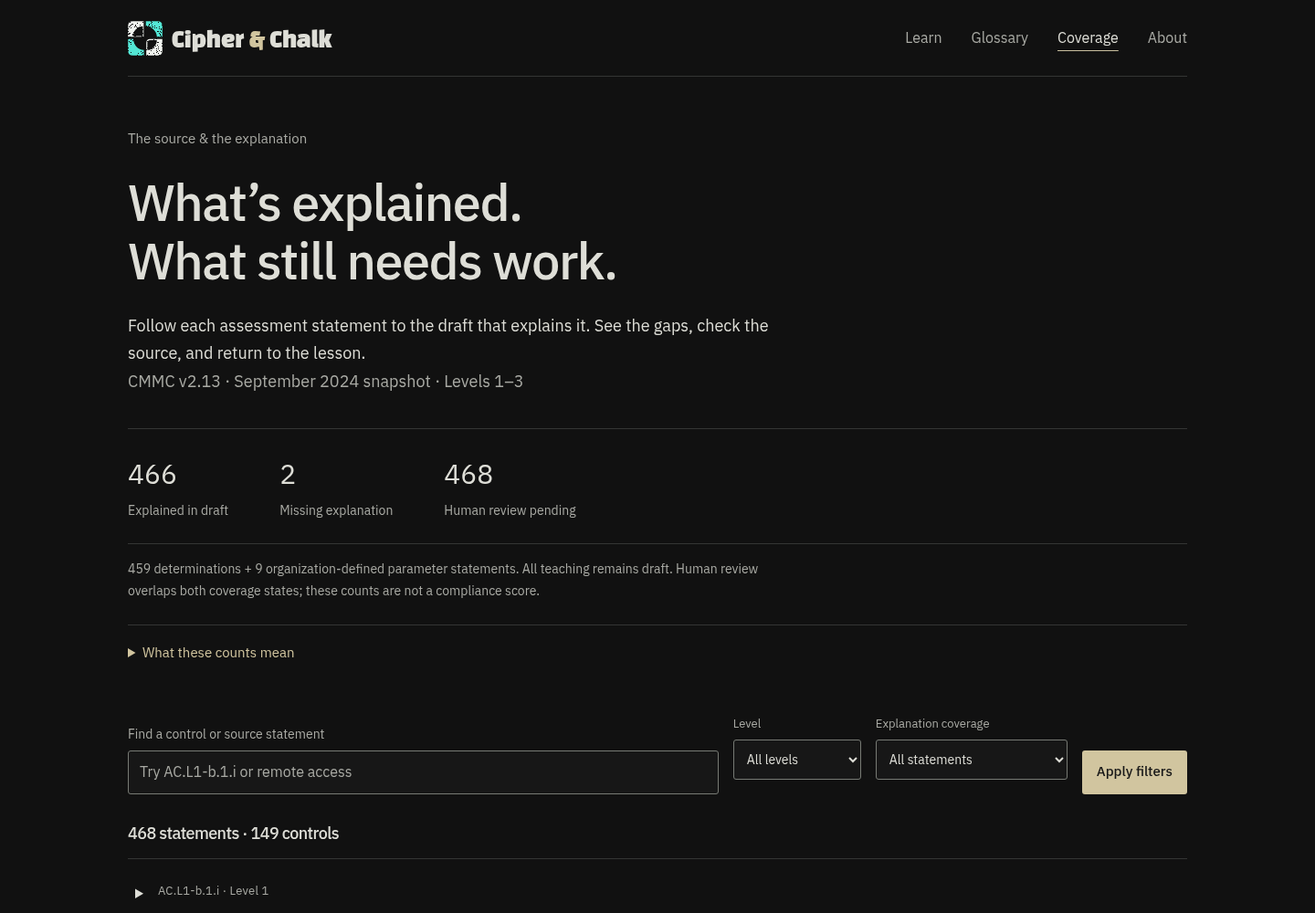
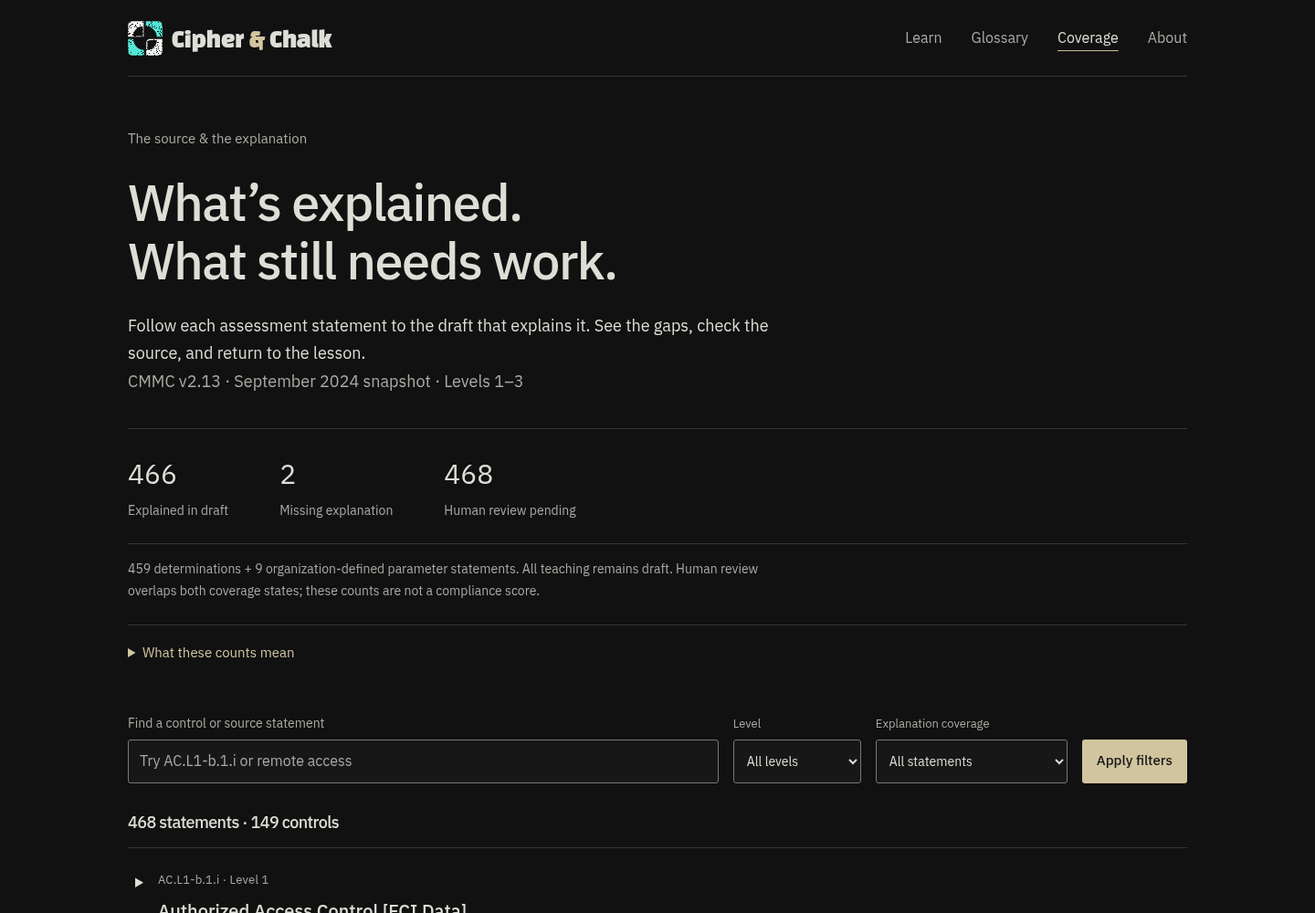
Align coverage filters and refresh validated preview evidence

diff --git a/src/components/coverage.css b/src/components/coverage.css
@@ -73,6 +73,10 @@
   }
   .coverage-filters .filter-field {
     min-width: 0;
+    margin-bottom: 0;
+  }
+  .coverage-filters .filter-field select {
+    min-height: 48px;
   }
   .coverage-filters .filter-field > span {
     font-size: 13px;

diff --git a/docs/reviews/objective-coverage-2026-10-14.md b/docs/reviews/objective-coverage-2026-10-14.md
@@ -75,66 +75,66 @@ apply; no paid providers, cookie imports, tunnels, sync, accounts or new product
 promotion are authorized. Bounded independent reviews are AI assistance, not
 qualified human approval.
 
-| Canonical skill       | Disposition for Increment 3                                                                                                                                                                                              |
-| --------------------- | ------------------------------------------------------------------------------------------------------------------------------------------------------------------------------------------------------------------------ |
-| gstack                | Adapted routing: evaluated all 58 canonical triggers for this fixed increment.                                                                                                                                           |
-| autoplan              | Not applicable: explicit four-increment plan; no product-scope expansion.                                                                                                                                                |
-| benchmark             | Adapted: initial JS 444.99 kB versus 443.15 kB base; roughly 152 kB coverage payload remains lazy. No broad performance benchmark.                                                                                       |
-| benchmark-models      | Not applicable; paid/outside-provider comparison unauthorized.                                                                                                                                                           |
-| browse                | Adapted: isolated Chromium production-build flows and screenshots at 1440/768/390/320px; actual Safari/iOS and assistive-technology checks remain unavailable.                                                           |
-| canary                | Not applicable: no production rollout; preview status checked separately.                                                                                                                                                |
-| careful               | Not invoked: ordinary feature Git operations; explicitly approved PR #15 merge verified.                                                                                                                                 |
-| claude-code           | Gated/not run: outside-provider reviews disabled.                                                                                                                                                                        |
-| codex                 | Unsupported host wrapper; native independent agents were used directly.                                                                                                                                                  |
-| context-restore       | Not applicable: no gstack saved checkpoint to restore.                                                                                                                                                                   |
-| context-save          | Not applicable: durable handoff is this PR and report.                                                                                                                                                                   |
-| cso                   | Blocked/not assessed: trusted installed launcher absent.                                                                                                                                                                 |
-| design-consultation   | Not applicable: preserve existing brand and design.                                                                                                                                                                      |
-| design-html           | Not applicable: no standalone design artifact requested.                                                                                                                                                                 |
-| design-review         | Adapted: desktop/tablet/mobile screenshots, hierarchy, muted tokens, wrapping, navigation, empty/loading/error states and keyboard disclosures inspected. Native scoring/provider gates omitted.                         |
-| design-shotgun        | Not applicable: no new design variants.                                                                                                                                                                                  |
-| deslop-shared-libs    | Not applicable: no substantive duplicate-library extraction.                                                                                                                                                             |
-| devex-review          | Not applicable as broad DX audit; existing Vitest and GitHub reviewer workflow reused.                                                                                                                                   |
-| diagram               | Not applicable: small engineering flow recorded inline, no diagram artifact.                                                                                                                                             |
-| document-generate     | Adapted: source inventory, objective mapping evidence and review-maintenance guidance created.                                                                                                                           |
-| document-release      | Adapted: roadmap/README/TODO/changelog/development/design/privacy/reviewer packet updated; only verified PR #15 merged tasks checked.                                                                                    |
-| eval-plan             | Not applicable: no LLM application or evaluation.                                                                                                                                                                        |
-| freeze                | Not applicable: no requested persistent scope lock.                                                                                                                                                                      |
-| gstack-upgrade        | Gated/not run: exact pin must remain.                                                                                                                                                                                    |
-| guard                 | Not applicable: no production/destructive workflow.                                                                                                                                                                      |
-| health                | Not applicable as release-health workflow: local targeted checks and CI cover this feature PR.                                                                                                                           |
-| investigate           | Adapted: source wording conflict and missing explicit teaching details traced to pinned guide pages.                                                                                                                     |
-| ios-clean             | Not applicable: no native iOS project.                                                                                                                                                                                   |
-| ios-design-review     | Not applicable: web app, not SwiftUI; actual Safari/iOS validation remains pending.                                                                                                                                      |
-| ios-fix               | Not applicable: no native iOS project.                                                                                                                                                                                   |
-| ios-qa                | Not applicable: no DebugBridge/iOS runtime.                                                                                                                                                                              |
-| ios-sync              | Not applicable: no native iOS project.                                                                                                                                                                                   |
-| land-and-deploy       | Native workflow not run; PR #15 merged with explicit approval. This increment requires new owner approval.                                                                                                               |
-| landing-report        | Not invoked: prior approved merge verified via GitHub; new PR handoff is review only.                                                                                                                                    |
-| learn                 | Not applicable: no separate learning-store update needed.                                                                                                                                                                |
-| make-pdf              | Not applicable: no export requested.                                                                                                                                                                                     |
-| office-hours          | Not applicable: requirements and audience are explicit; no new product discovery.                                                                                                                                        |
-| open-gstack-browser   | Unavailable user-facing cloud browser; local Chromium automation available.                                                                                                                                              |
-| pair-agent            | Gated/not run: no remote browser sharing or tunnel authorized.                                                                                                                                                           |
-| plan-ceo-review       | Not applicable: fixed Phase 1/2 increments and explicit prohibition on scope expansion.                                                                                                                                  |
-| plan-design-review    | Adapted scoped plan below; existing visual system retained. Native scorecard/mockup/provider gates not run.                                                                                                              |
-| plan-devex-review     | Not applicable: no new developer product/API.                                                                                                                                                                            |
-| plan-eng-review       | Adapted: edition/source/text bindings, explicit field mappings, fail-closed gaps, lazy data and navigation plan below.                                                                                                   |
-| plan-tune             | Not applicable: no preference-profile change requested.                                                                                                                                                                  |
-| qa                    | Adapted: full 50 browser tests passed; five focused coverage tests passed again after the final teaching changes. Source verification, 342 unit tests and integrity fixtures passed; exact final CI remains PR evidence. |
-| qa-only               | Not applicable as duplicate alternative; scoped QA includes repairs.                                                                                                                                                     |
-| retro                 | Not applicable: no retrospective requested.                                                                                                                                                                              |
-| review                | Adapted: critical/informational diff check plus two bounded independent reviews; exact-control filtering and missing mapping fingerprint fixed. Semantic gaps repaired and delta-checked.                                |
-| scrape                | Not applicable: reuse verified pinned PDFs; current official-host access remains blocked as recorded in Increment 2.                                                                                                     |
-| setup-browser-cookies | Gated/not run: personal-session import unauthorized.                                                                                                                                                                     |
-| setup-deploy          | Not applicable: existing Git/Vercel preview integration retained.                                                                                                                                                        |
-| setup-gbrain          | Gated/not run: no new memory/account integration authorized.                                                                                                                                                             |
-| ship                  | Native workflow incomplete; ordinary authorized feature-branch commit/push/PR/preview verification only.                                                                                                                 |
-| skillify              | Not applicable: no scrape to codify.                                                                                                                                                                                     |
-| spec                  | Not applicable: user supplied detailed assignment; no external issue filing.                                                                                                                                             |
-| sync-gbrain           | Gated/not run: no authorized sync integration.                                                                                                                                                                           |
-| test-audit            | Not applicable as suite-pruning workflow: no deletions; each new regression covers browser-only behavior.                                                                                                                |
-| unfreeze              | Not applicable: no active freeze to remove.                                                                                                                                                                              |
+| Canonical skill       | Disposition for Increment 3                                                                                                                                                                                                                                    |
+| --------------------- | -------------------------------------------------------------------------------------------------------------------------------------------------------------------------------------------------------------------------------------------------------------- |
+| gstack                | Adapted routing: evaluated all 58 canonical triggers for this fixed increment.                                                                                                                                                                                 |
+| autoplan              | Not applicable: explicit four-increment plan; no product-scope expansion.                                                                                                                                                                                      |
+| benchmark             | Adapted: initial JS 444.99 kB versus 443.15 kB base; roughly 152 kB coverage payload remains lazy. No broad performance benchmark.                                                                                                                             |
+| benchmark-models      | Not applicable; paid/outside-provider comparison unauthorized.                                                                                                                                                                                                 |
+| browse                | Adapted: isolated Chromium production-build flows and screenshots at 1440/768/390/320px; actual Safari/iOS and assistive-technology checks remain unavailable.                                                                                                 |
+| canary                | Not applicable: no production rollout; preview status checked separately.                                                                                                                                                                                      |
+| careful               | Not invoked: ordinary feature Git operations; explicitly approved PR #15 merge verified.                                                                                                                                                                       |
+| claude-code           | Gated/not run: outside-provider reviews disabled.                                                                                                                                                                                                              |
+| codex                 | Unsupported host wrapper; native independent agents were used directly.                                                                                                                                                                                        |
+| context-restore       | Not applicable: no gstack saved checkpoint to restore.                                                                                                                                                                                                         |
+| context-save          | Not applicable: durable handoff is this PR and report.                                                                                                                                                                                                         |
+| cso                   | Blocked/not assessed: trusted installed launcher absent.                                                                                                                                                                                                       |
+| design-consultation   | Not applicable: preserve existing brand and design.                                                                                                                                                                                                            |
+| design-html           | Not applicable: no standalone design artifact requested.                                                                                                                                                                                                       |
+| design-review         | Adapted: desktop/tablet/mobile screenshots, hierarchy, muted tokens, wrapping, navigation, empty/loading/error states and keyboard disclosures inspected; inherited filter margins corrected to align the desktop form. Native scoring/provider gates omitted. |
+| design-shotgun        | Not applicable: no new design variants.                                                                                                                                                                                                                        |
+| deslop-shared-libs    | Not applicable: no substantive duplicate-library extraction.                                                                                                                                                                                                   |
+| devex-review          | Not applicable as broad DX audit; existing Vitest and GitHub reviewer workflow reused.                                                                                                                                                                         |
+| diagram               | Not applicable: small engineering flow recorded inline, no diagram artifact.                                                                                                                                                                                   |
+| document-generate     | Adapted: source inventory, objective mapping evidence and review-maintenance guidance created.                                                                                                                                                                 |
+| document-release      | Adapted: roadmap/README/TODO/changelog/development/design/privacy/reviewer packet updated; only verified PR #15 merged tasks checked.                                                                                                                          |
+| eval-plan             | Not applicable: no LLM application or evaluation.                                                                                                                                                                                                              |
+| freeze                | Not applicable: no requested persistent scope lock.                                                                                                                                                                                                            |
+| gstack-upgrade        | Gated/not run: exact pin must remain.                                                                                                                                                                                                                          |
+| guard                 | Not applicable: no production/destructive workflow.                                                                                                                                                                                                            |
+| health                | Not applicable as release-health workflow: local targeted checks and CI cover this feature PR.                                                                                                                                                                 |
+| investigate           | Adapted: source wording conflict and missing explicit teaching details traced to pinned guide pages.                                                                                                                                                           |
+| ios-clean             | Not applicable: no native iOS project.                                                                                                                                                                                                                         |
+| ios-design-review     | Not applicable: web app, not SwiftUI; actual Safari/iOS validation remains pending.                                                                                                                                                                            |
+| ios-fix               | Not applicable: no native iOS project.                                                                                                                                                                                                                         |
+| ios-qa                | Not applicable: no DebugBridge/iOS runtime.                                                                                                                                                                                                                    |
+| ios-sync              | Not applicable: no native iOS project.                                                                                                                                                                                                                         |
+| land-and-deploy       | Native workflow not run; PR #15 merged with explicit approval. This increment requires new owner approval.                                                                                                                                                     |
+| landing-report        | Not invoked: prior approved merge verified via GitHub; new PR handoff is review only.                                                                                                                                                                          |
+| learn                 | Not applicable: no separate learning-store update needed.                                                                                                                                                                                                      |
+| make-pdf              | Not applicable: no export requested.                                                                                                                                                                                                                           |
+| office-hours          | Not applicable: requirements and audience are explicit; no new product discovery.                                                                                                                                                                              |
+| open-gstack-browser   | Unavailable user-facing cloud browser; local Chromium automation available.                                                                                                                                                                                    |
+| pair-agent            | Gated/not run: no remote browser sharing or tunnel authorized.                                                                                                                                                                                                 |
+| plan-ceo-review       | Not applicable: fixed Phase 1/2 increments and explicit prohibition on scope expansion.                                                                                                                                                                        |
+| plan-design-review    | Adapted scoped plan below; existing visual system retained. Native scorecard/mockup/provider gates not run.                                                                                                                                                    |
+| plan-devex-review     | Not applicable: no new developer product/API.                                                                                                                                                                                                                  |
+| plan-eng-review       | Adapted: edition/source/text bindings, explicit field mappings, fail-closed gaps, lazy data and navigation plan below.                                                                                                                                         |
+| plan-tune             | Not applicable: no preference-profile change requested.                                                                                                                                                                                                        |
+| qa                    | Adapted: full 50 browser tests passed; five focused coverage tests passed again after the final teaching changes. Source verification, 342 unit tests and integrity fixtures passed; exact final CI remains PR evidence.                                       |
+| qa-only               | Not applicable as duplicate alternative; scoped QA includes repairs.                                                                                                                                                                                           |
+| retro                 | Not applicable: no retrospective requested.                                                                                                                                                                                                                    |
+| review                | Adapted: critical/informational diff check plus two bounded independent reviews; exact-control filtering and missing mapping fingerprint fixed. Semantic gaps repaired and delta-checked.                                                                      |
+| scrape                | Not applicable: reuse verified pinned PDFs; current official-host access remains blocked as recorded in Increment 2.                                                                                                                                           |
+| setup-browser-cookies | Gated/not run: personal-session import unauthorized.                                                                                                                                                                                                           |
+| setup-deploy          | Not applicable: existing Git/Vercel preview integration retained.                                                                                                                                                                                              |
+| setup-gbrain          | Gated/not run: no new memory/account integration authorized.                                                                                                                                                                                                   |
+| ship                  | Native workflow incomplete; ordinary authorized feature-branch commit/push/PR/preview verification only.                                                                                                                                                       |
+| skillify              | Not applicable: no scrape to codify.                                                                                                                                                                                                                           |
+| spec                  | Not applicable: user supplied detailed assignment; no external issue filing.                                                                                                                                                                                   |
+| sync-gbrain           | Gated/not run: no authorized sync integration.                                                                                                                                                                                                                 |
+| test-audit            | Not applicable as suite-pruning workflow: no deletions; each new regression covers browser-only behavior.                                                                                                                                                      |
+| unfreeze              | Not applicable: no active freeze to remove.                                                                                                                                                                                                                    |
 
 ## Validation and publication evidence
 
@@ -183,3 +183,11 @@ verification, applicability and qualified interpretation of the two specialized-
 asset statements are unresolved. Phase 1/2 are not declared complete. PR #15's two
 engineering subtasks are checked only because its approved merge was verified;
 this increment's merge milestone stays unchecked until owner approval and merge.
+
+The final layout-only correction removes an inherited bottom margin from coverage
+select fields and aligns them with the search input and submit button. All required
+checks and the build passed again, followed by ten affected browser checks (five
+coverage flows plus five viewport accessibility/reflow scans). A DOM geometry check
+confirmed aligned desktop controls, and the screenshots were refreshed. The preceding
+implementation commit `df15962` also passed GitHub CI `38580052700` and Vercel;
+PR #16 records the exact final layout-commit deployment separately.
